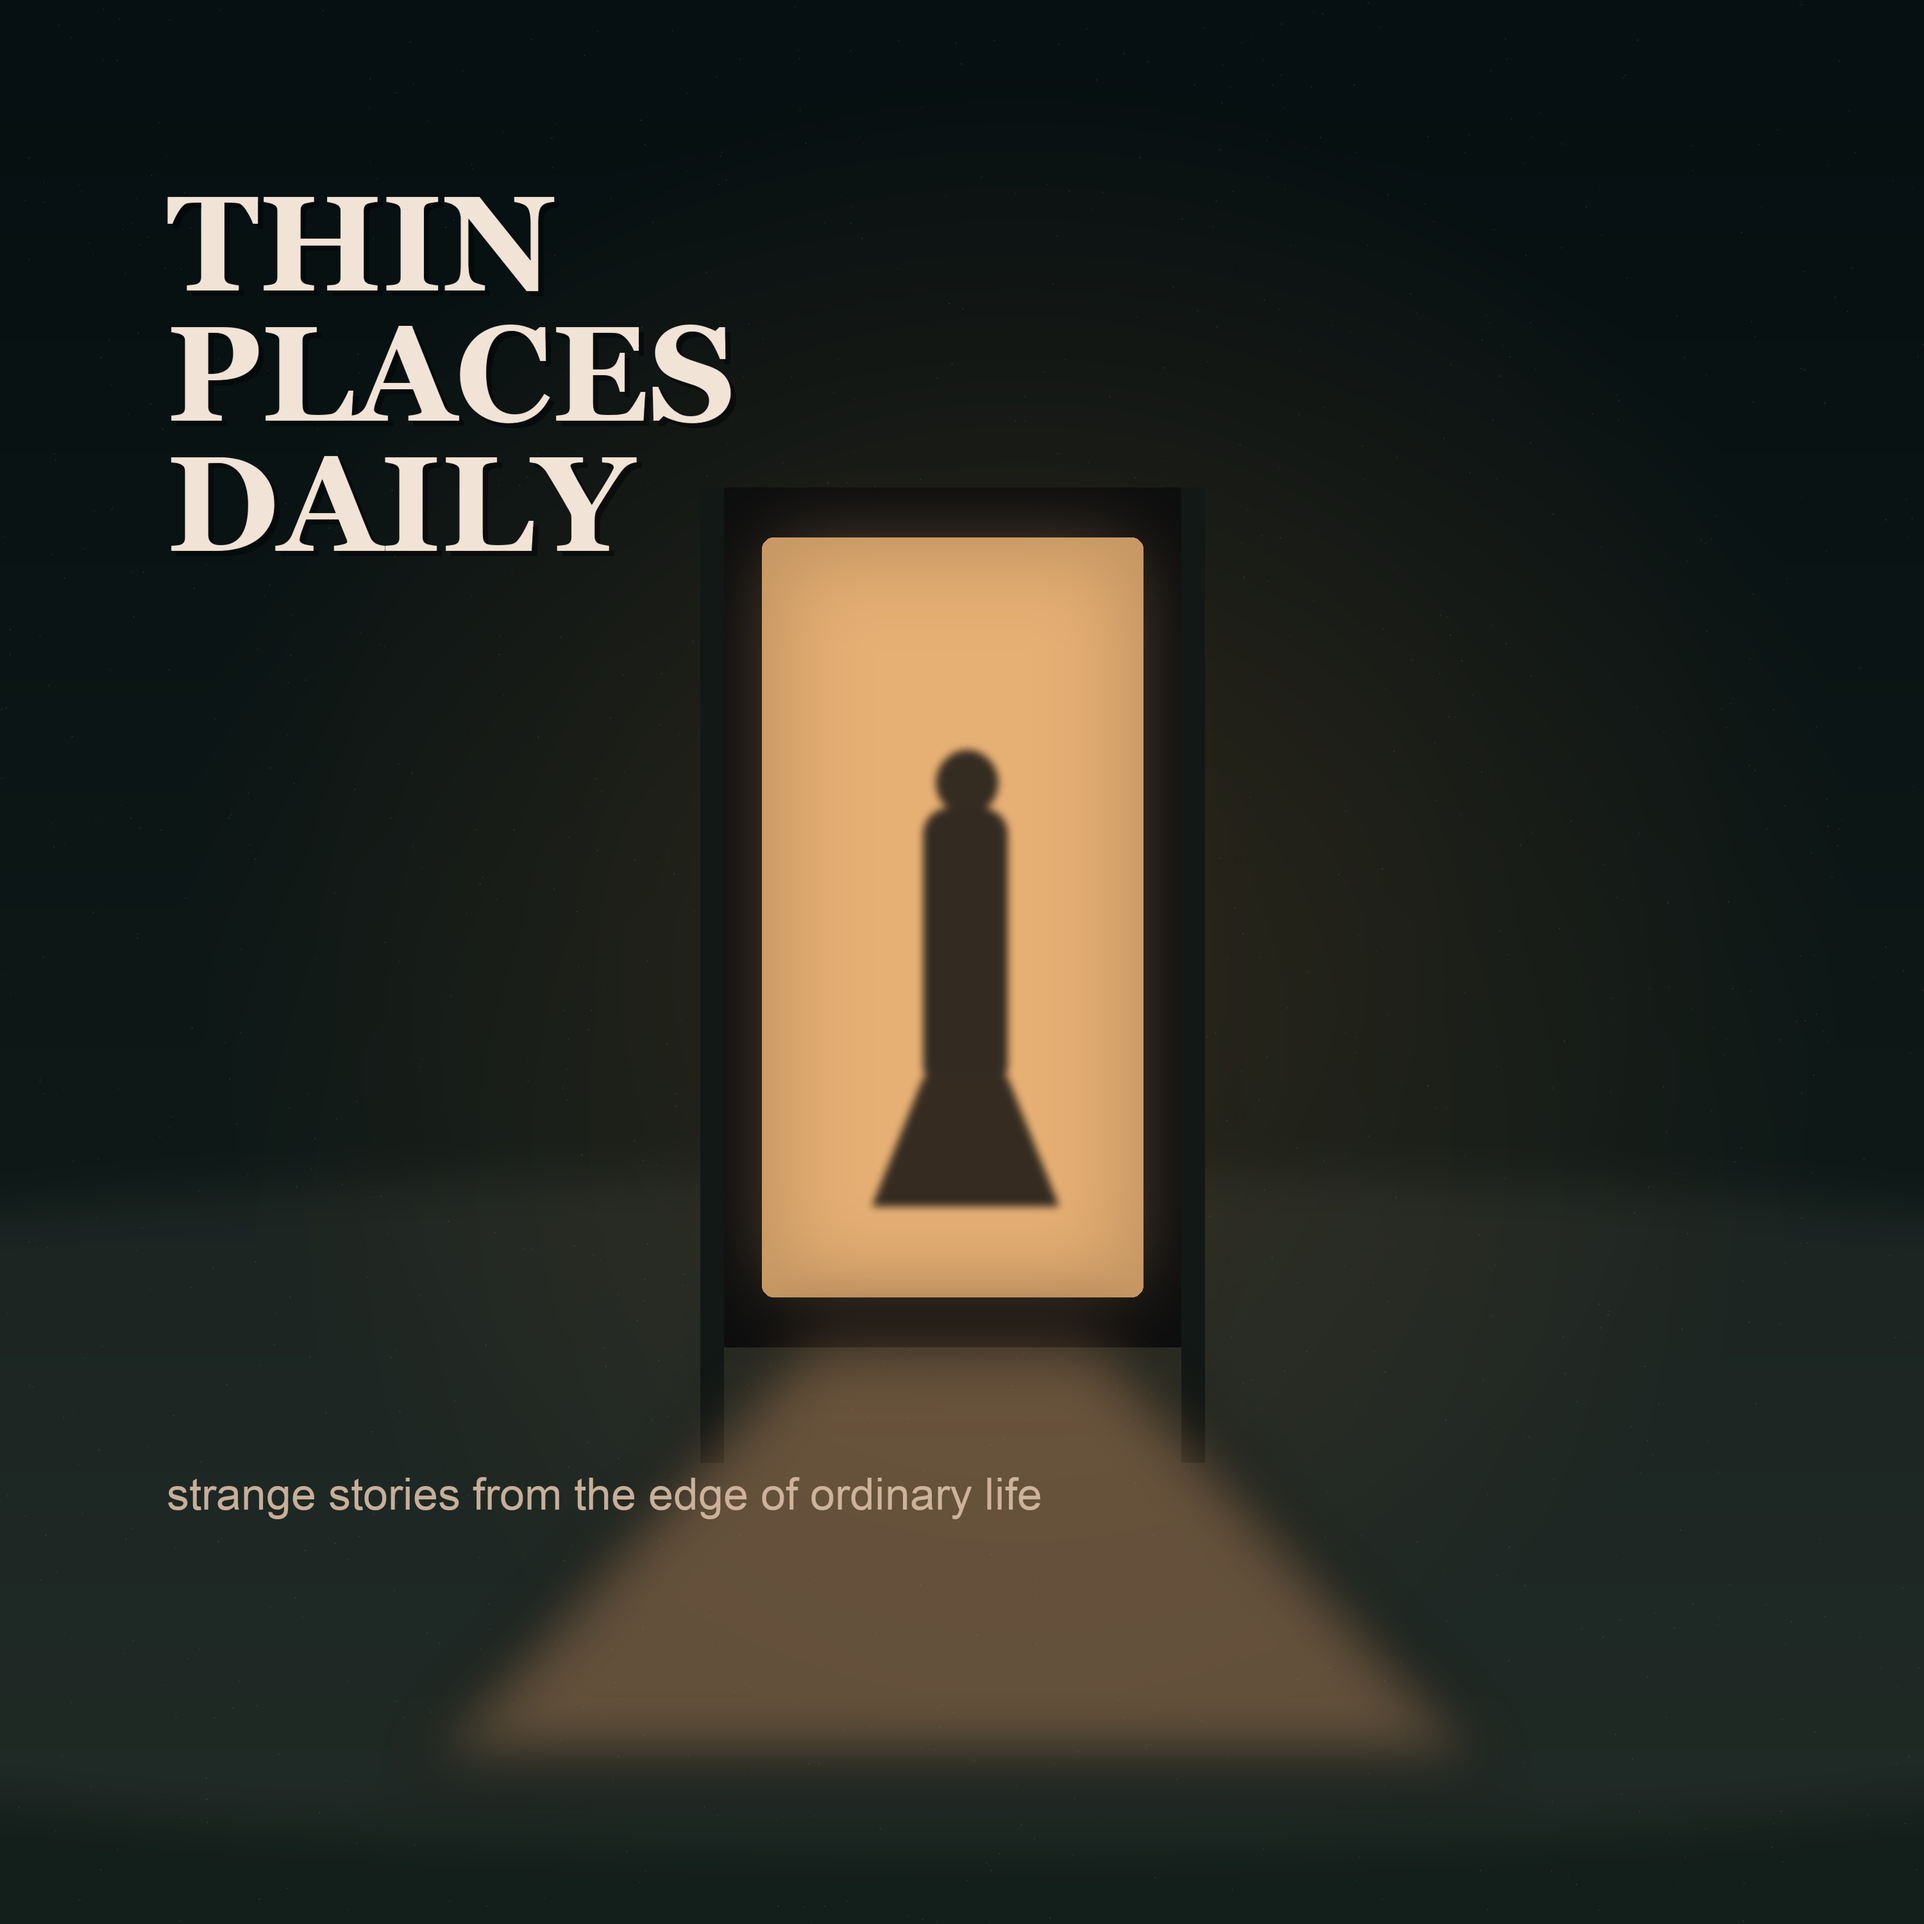
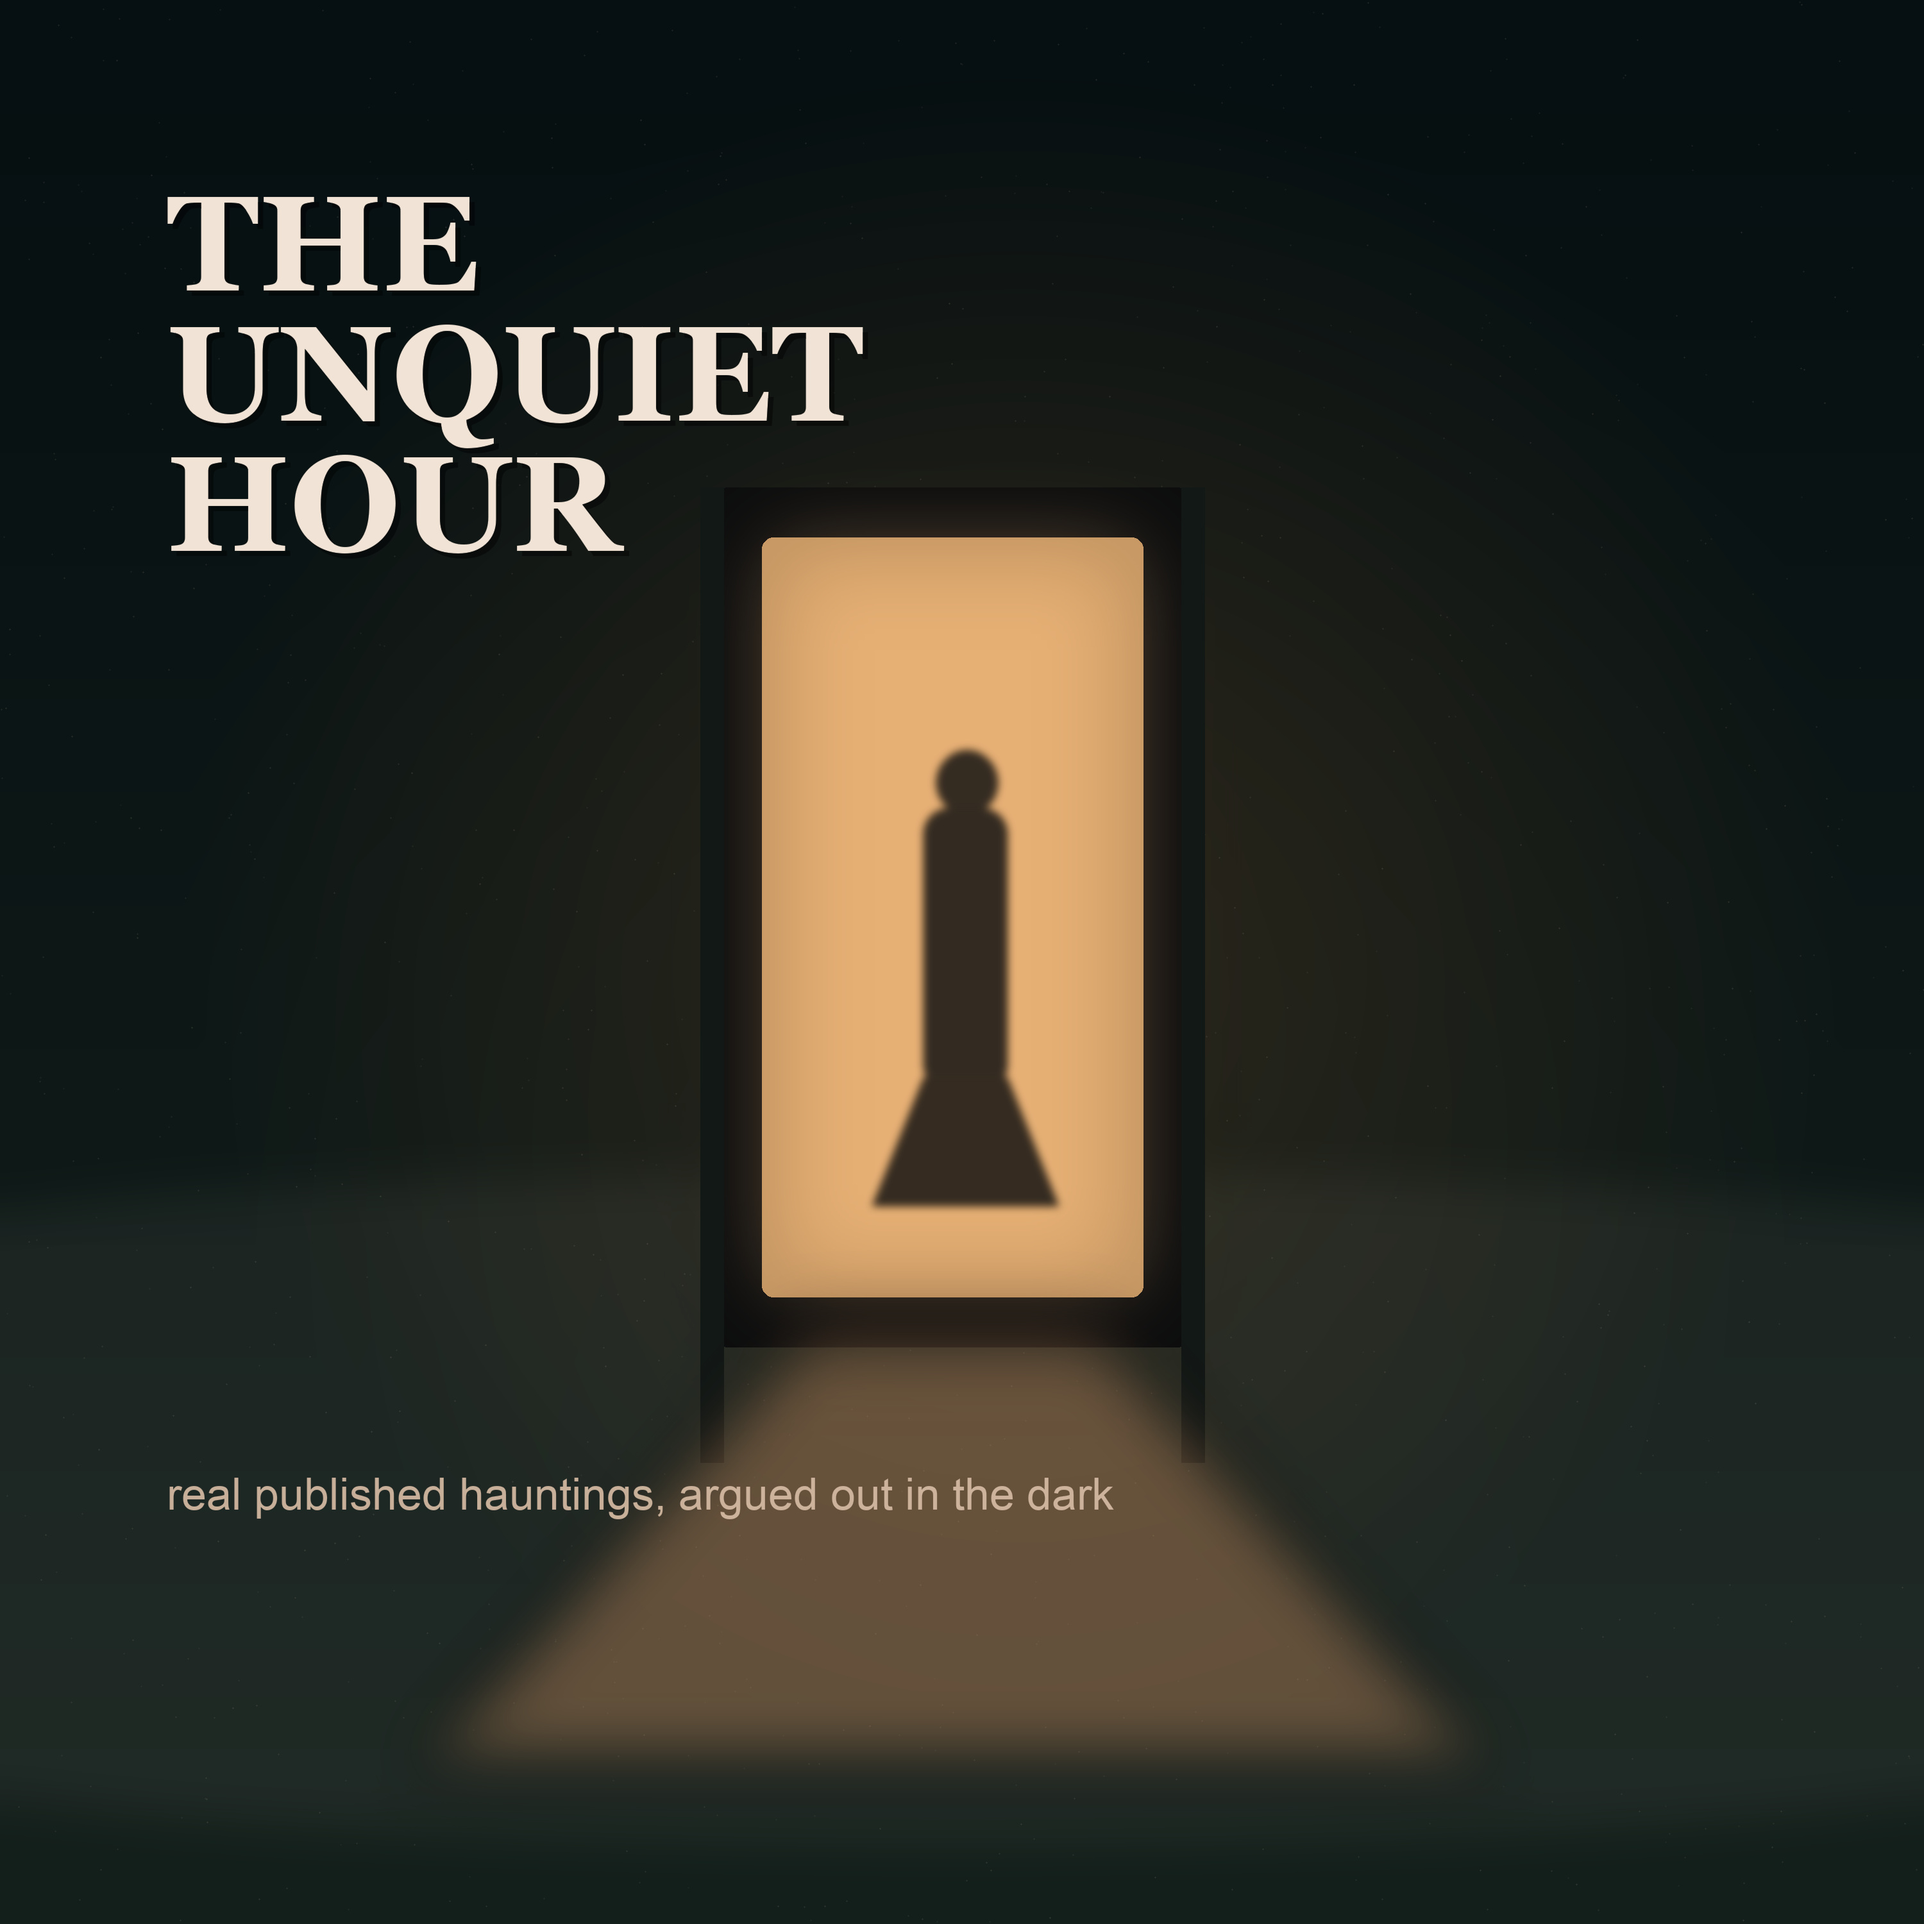
Initial Thin Places Daily feed setup

Changed region(s): [[0.093, 0.093, 0.465, 0.31], [0.093, 0.775, 0.558, 0.806]]

diff --git a/index.html b/index.html
@@ -3,7 +3,7 @@
 <head>
   <meta charset="utf-8"/>
   <meta name="viewport" content="width=device-width, initial-scale=1"/>
-  <title>Thin Places Daily</title>
+  <title>The Unquiet Hour</title>
   <style>
     :root {
       color-scheme: dark;
@@ -53,11 +53,11 @@
 </head>
 <body>
   <main>
-    <h1>Thin Places Daily</h1>
-    <p>A daily paranormal feed built around intimate witness accounts, local folklore, and the details that still refuse to fit.</p>
+    <h1>The Unquiet Hour</h1>
+    <p>A daily paranormal feed where two hosts talk through real published hauntings, historical context, skeptical reads, and the details that still refuse to sit still.</p>
     <p>RSS feed:</p>
-    <code>https://JeffB823.github.io/thin-places-daily-feed/feed.xml</code>
-    <p><a href="podcast://JeffB823.github.io/thin-places-daily-feed/feed.xml">Open in Apple Podcasts</a></p>
+    <code>https://JeffB823.github.io/unquiet-hour-feed/feed.xml</code>
+    <p><a href="podcast://JeffB823.github.io/unquiet-hour-feed/feed.xml">Open in Apple Podcasts</a></p>
   </main>
 </body>
 </html>
